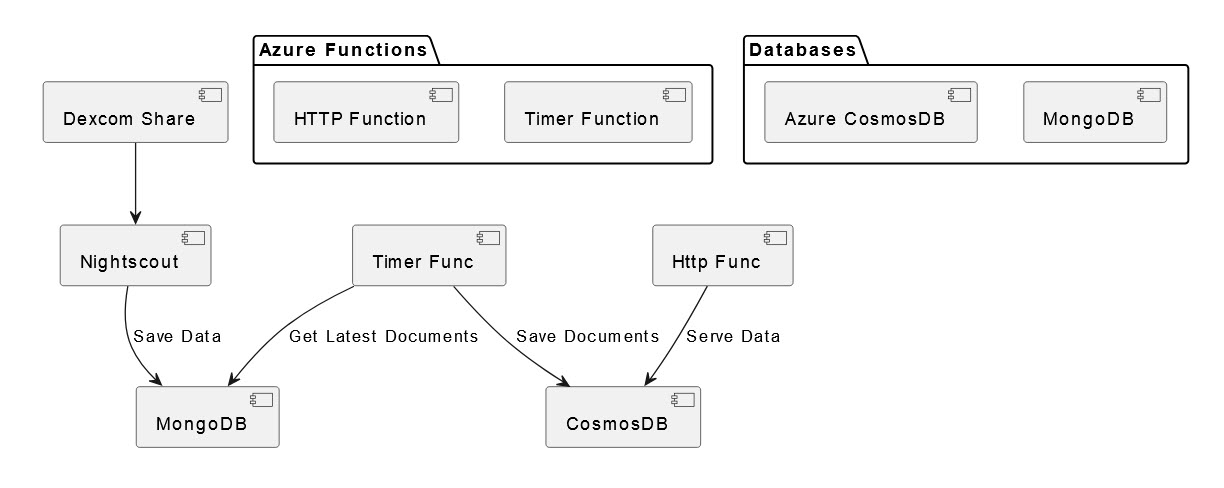
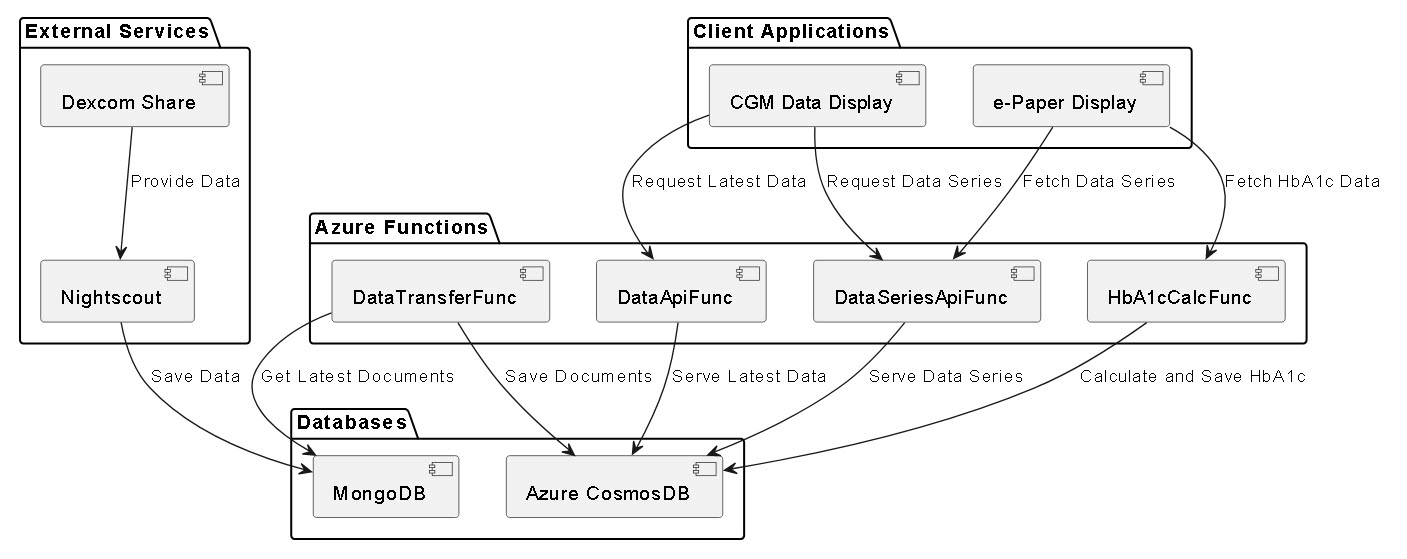
Updated readme

diff --git a/readme.md b/readme.md
@@ -1,26 +1,37 @@
 # Nightscout Companion Apps
 
 ## Table of Contents
-
 - [Nightscout Companion Apps](#nightscout-companion-apps)
-  - Table of Contents
-  - [Intro](#intro)
-  - [How to get started with Nightscout](#how-to-get-started-with-nightscout)
-  - [Context](#context)
-  - [Note](#note)
-  - [Big picture](#big-picture)
-  - [Next steps](#next-steps)
-    - [General](#general)
-    - [CGM Data Display (Windows Forms App)](#cgm-data-display-windows-forms-app)
-    - [Data Api Function](#data-api-function)
+    - Table of Contents
+    - [Intro](#intro)
+    - [How to get started with Nightscout](#how-to-get-started-with-nightscout)
+    - [Context](#context)
+    - [Note](#note)
+    - [Big picture](#big-picture)
+    - [Next steps](#next-steps)
+        - [General](#general)
+        - [CGM Data Display (Windows Forms App)](#cgm-data-display-windows-forms-app)
+        - [Data Api Function](#data-api-function)
 - [CGM Data Display (Windows Forms app)](#cgm-data-display)
-  - [How to use](#how-to-use)
-  - [Known Issues](#known-issues)
-  - [Settings](#settings)
+    - [How to use](#how-to-use)
+    - [Known Issues](#known-issues)
+    - [Settings](#settings)
+- [Azure Function - Data Transfer](#azure-function---data-transfer)
+    - [DataTransferFunc](#datatransferfunc)
+    - [HbA1cCalcFunc](#hba1ccalcfunc)
+- [Azure Function - Data Api](#azure-function---data-api)
+    - [DataApiFunc](#dataapifunc)
+    - [DataSeriesApiFunc](#dataseriesapifunc)
+    - [DataLatestHbA1cFunc](#datalatesthba1cfunc)
+- [Disclaimer](#disclaimer)
+    - [Licensing and Contributions](#licensing-and-contributions)
+    - [Affiliation](#affiliation)
+    - [No Medical Advice or Treatment](#no-medical-advice-or-treatment)
+    - [No Guarantees or Warranties](#no-guarantees-or-warranties)
+    - [Trust Your Body](#trust-your-body)
 
 
 ## Intro
-
 So I finally was able to use a CGM (continuous glucose monitor) and I was able to own the data from it, thanks to 
 Nightscout and Azure! <3
 
@@ -73,10 +84,12 @@ Help and feedback are always welcome!
 ## Big picture
 ![Big Picture Diagram](./.readme.imgs/big-picture.jpg)
 
-```
+```uml
 package "Azure Functions" {
-  [Timer Function] as TimerFunc
-  [HTTP Function] as HttpFunc
+  [DataTransferFunc] as DataTransferFunc
+  [DataApiFunc] as DataApiFunc
+  [DataSeriesApiFunc] as DataSeriesApiFunc
+  [HbA1cCalcFunc] as HbA1cCalcFunc
 }
 
 package "Databases" {
@@ -84,13 +97,31 @@ package "Databases" {
   [Azure CosmosDB] as CosmosDb
 }
 
-[Timer Func] --> [MongoDB] : Get Latest Documents
-[Timer Func] --> [CosmosDB] : Save Documents
+package "Client Applications" {
+  [CGM Data Display] as CGMDataDisplay
+  [e-Paper Display] as EPaperDisplay
+}
 
-[Http Func] --> [CosmosDB] : Serve Data
+package "External Services" {
+  [Nightscout] as Nightscout
+  [Dexcom Share] as DexcomShare
+}
 
-[Nightscout] --> [MongoDB] : Save Data
-[Dexcom Share] --> [Nightscout]
+[DataTransferFunc] --> [MongoDb] : Get Latest Documents
+[DataTransferFunc] --> [CosmosDb] : Save Documents
+
+[DataApiFunc] --> [CosmosDb] : Serve Latest Data
+[DataSeriesApiFunc] --> [CosmosDb] : Serve Data Series
+[HbA1cCalcFunc] --> [CosmosDb] : Calculate and Save HbA1c
+
+[CGMDataDisplay] --> [DataApiFunc] : Request Latest Data
+[CGMDataDisplay] --> [DataSeriesApiFunc] : Request Data Series
+
+[EPaperDisplay] --> [DataSeriesApiFunc] : Fetch Data Series
+[EPaperDisplay] --> [HbA1cCalcFunc] : Fetch HbA1c Data
+
+[Nightscout] --> [MongoDb] : Save Data
+[DexcomShare] --> [Nightscout] : Provide Data
 ```
 
 This diagram illustrates the system components and their relationships. The Azure Functions consist of a Timer Function
@@ -185,6 +216,7 @@ used as a base, but here's how it work:
 ![Example of Taskbar Icon 2](./.readme.imgs/cgm-data-display-2.jpeg)
 ![Example of Taskbar Icon 3](./.readme.imgs/cgm-data-display-3.jpeg)
 
+
 # Azure Function - Data Transfer
 If you want to use this function, you'll need to set the following environment variables:
 - `MongoDbConnectionString`: Connection string to your MongoDb database.
@@ -231,7 +263,6 @@ the MongoDb document, but I created an enum so I won't have to save in the doc w
 
 The property `date` (MongoDb) is mapped to `readAt` in my document.
 
-
 ## HbA1cCalcFunc
 This function runs daily and tries to get the latest 115 days of data from CosmosDB and calculate the HbA1c value (in 
 percentage) based on the data. It then saves the result in CosmosDB.
@@ -239,7 +270,10 @@ percentage) based on the data. It then saves the result in CosmosDB.
 Formula:
 `HbA1c = (Average Blood Glucose + 46.7) / 28.7`
 
-
+It will calculate if there are enough data or not. If we there's not enough data, the calculation will be marked
+as partial. 
+In the response only, I've added a field to tell if the calculation is stale or not. A stale calculation is one that is 
+more than a day old.
 
 - References:
   - https://www.diabetes.org.uk/guide-to-diabetes/managing-your-diabetes/hba1c
@@ -254,8 +288,19 @@ If you want to use this function, you'll need to set the following environment v
 - `CosmosConnectionString`: Connection string to your Azure CosmosDB database.
 - `CosmosDatabaseName`: Name of the Azure CosmosDB database.
 - `CosmosContainerName`: Name of the collection that has the data. You probably want to add the "entries" collection.
+- `CosmosAggregateContainerName`: Name of the collection that will have the aggregated data. (Like HbA1c calculations)
 - `SillySecret`: This is an arbitrary string that the function expects to receive. If you don't send it, the function will return a 401 error. I know it's not the best extra security ever implemented in an application, but I like the idea. If you're going to use and don't want that, feel free to remove it from the implementation.
 - `DataSeriesMaxRecords`: Max number of records that can be returned at once by the DataSeriesApiFunc. If not provided, will use 4032 (two weeks worth of data).
+
+## DataApiFunc
+This function returns the latest blood sugar reading available in CosmosDB. Pretty simple and straightforward.
+
+## DataSeriesApiFunc
+This function returns a series of blood sugar readings available in CosmosDB. It will return the N latest data, sorted 
+from newest to oldest. 
+
+## DataLatestHbA1cFunc
+This function returns the latest successful and partially successful HbA1c calculations available in CosmosDB.
 
 
 # Disclaimer
